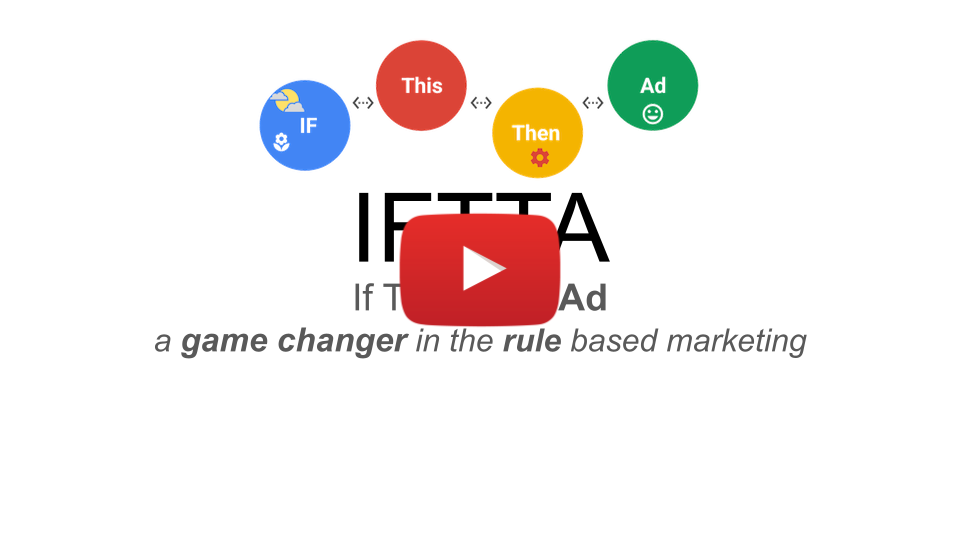
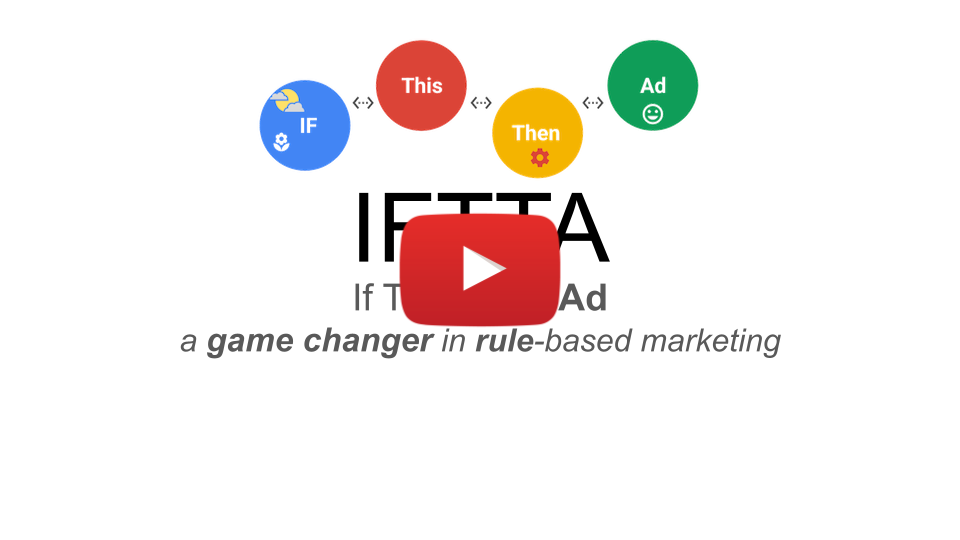
Added new video link and adjusted the text

Changed region(s): [[0.1562, 0.5926, 0.8438, 0.6815]]

diff --git a/README.md b/README.md
@@ -17,10 +17,10 @@
 [![GitHub tag (latest SemVer)](https://img.shields.io/github/v/tag/google/if-this-then-ad?label=release&logo=github)](https://github.com/google/if-this-then-ad)
 [![GitHub last commit](https://img.shields.io/github/last-commit/google/if-this-then-ad)](https://github.com/google/if-this-then-ad/commits)
 
-[![If This Then Ad (IFFTA)](imgs/demo-video.png)](http://www.youtube.com/watch?v=fPu-4EmKyjk "If This Then Ad (IFFTA)")
-YouTube Link: [youtu.be/fPu-4EmKyjk](https://youtu.be/fPu-4EmKyjk).
+[![If This Then Ad (IFFTA)](imgs/demo-video.png)](http://www.youtube.com/watch?v=ugklLFbij-A "If This Then Ad (IFFTA)")
+YouTube Link: [youtu.be/ugklLFbij-A](https://youtu.be/ugklLFbij-A).
 
-IFTTA is a game changer in the **rule based marketing**. With our tool you can run marketing campaigns based on real world events.
+IFTTA is a game changer in **rule-based marketing**. With our tool you can run marketing campaigns based on real world events.
 We already support the following data sources:
 * Weather (based on [OpenWeatherMaps API](https://openweathermap.org/)). The Weather conditions that you already can use: temperature, wind speed, cloudiness, rain, snow, thunderstorm.
 * Pollen and Air Quality ([Ambee API](https://www.getambee.com/)).
@@ -29,7 +29,7 @@ On the marketing activation side we support the following platforms:
 * [DV360](https://marketingplatform.google.com/intl/de/about/display-video-360/) (via the [DV360 API](https://developers.google.com/display-video/api/reference/rest))
 * [Google Ads](https://ads.google.com/) (via the [Ads API](https://developers.google.com/google-ads/api/docs/release-notes))
 
-*Keywords: Weather Based Marketing, External Signal Based Marketing, Pollen Based Marketing, AirQuality Based Marketing.*
+*Keywords: Weather Based Marketing, External Signal Based Marketing, Pollen Based Marketing, AirQuality Based Marketing, Rule-based Marketing.*
 
 ## The Problem that we solve
 * Advertisers want to show their ads as targeted as possible to reach the right audience at the right time
